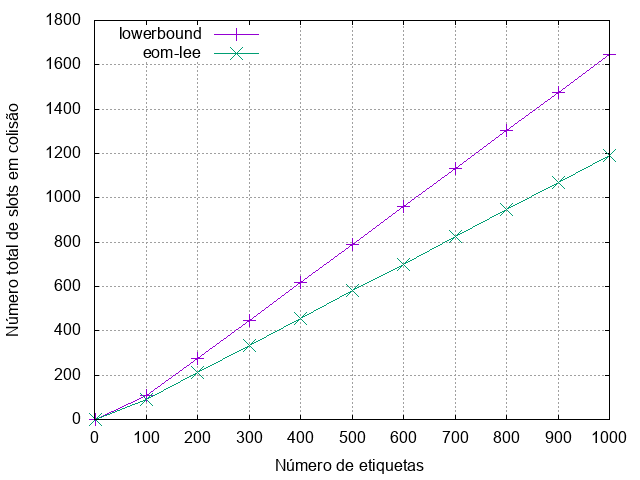
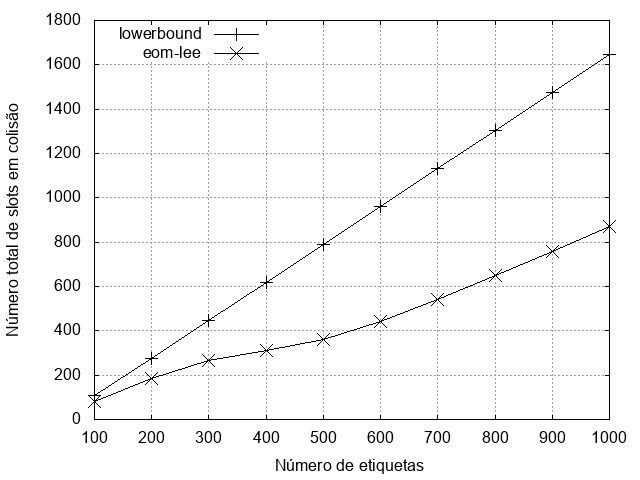
modification on eomlee function

diff --git a/SimuladorRFID/src/simulador/Simulador.java b/SimuladorRFID/src/simulador/Simulador.java
@@ -55,6 +55,8 @@ public class Simulador {
 		double gama_atual = 0;
 		double gama_anterior = 2;
 		
+		boolean parar = false;
+		
 		do{
 			
 			double betaK = tamanho_quadro/(gama_anterior*colisoes + sucessos);
@@ -65,11 +67,12 @@ public class Simulador {
 			double b = betaK * (1 - eb);
 			gama_atual = a/b;
 			
+			if(Math.abs(gama_anterior - gama_atual) < limiar) parar = true;
 			gama_anterior = gama_atual;
 			
-		}while(Math.abs(gama_anterior - gama_atual) >= limiar);
+		}while(!parar);
 		
-		return (int) (gama_atual * colisoes);
+		return (int) Math.ceil(gama_atual * colisoes);
 		
 	}
 	
@@ -77,7 +80,7 @@ public class Simulador {
 		
 		Random ran = new Random();
 		int total_slots = 0;
-		int quadro = this.quadro_inicial;
+		int tan_quadro = this.quadro_inicial;
 		int qtd_etiquetas = this.qtd_etiquetas[posicao];
 		
 		int colisao = 0, sucesso = 0, vazio = 0;
@@ -85,18 +88,18 @@ public class Simulador {
 		do{
 			colisao = 0; sucesso = 0; vazio = 0;
 			
-			total_slots += quadro;
+			total_slots += tan_quadro;
 			
-			int[] slots_abertos = new int[quadro];
+			int[] quadro = new int[tan_quadro];
 			for (int i = 0; i < qtd_etiquetas; i++) {
-				int n = ran.nextInt(quadro); //slot em que a etiqueta irá responder
-				slots_abertos[n]++;
+				int n = ran.nextInt(tan_quadro); //slot em que a etiqueta irá responder
+				quadro[n]++;
 			}
 			
-			for (int i = 0; i < slots_abertos.length; i++) {
-				if(slots_abertos[i] > 1) {
+			for (int i = 0; i < quadro.length; i++) {
+				if(quadro[i] > 1) {
 					colisao++;
-				} else if(slots_abertos[i] == 1){
+				} else if(quadro[i] == 1){
 					sucesso++;
 				} else {
 					vazio++;					
@@ -107,10 +110,10 @@ public class Simulador {
 			if(colisao > 0){
 				switch(this.estimador){
 				case("lowerbound"):
-					quadro = lowerbound(colisao);
+					tan_quadro = lowerbound(colisao);
 					break;
 				case("eom-lee"):
-					quadro = eomlee(colisao,sucesso,quadro);
+					tan_quadro = eomlee(colisao,sucesso,tan_quadro);
 					break;
 				}				
 			}
@@ -120,8 +123,7 @@ public class Simulador {
 			this.total_slots_vazio[posicao] += vazio;
 			this.total_slots_colisao[posicao] += colisao;
 			
-			//System.out.println("Colisões:\t" + estado[0] + "\tAcertos:\t" + estado[1] + "\tVazio:\t" + estado[2]);
-		}while(colisao != 0);
+		}while(qtd_etiquetas > 0);
 		
 		this.total_slots[posicao] += total_slots;
 	}
@@ -191,8 +193,11 @@ public class Simulador {
 		
 		try {
 			FileWriter writer = new FileWriter(nome_arquivo);
-
-			for (int i = 0; i < qtd_etiquetas.length; i++) {
+			
+			int j = 1;
+			if(this.estimador.equals("q")) j = 0;
+			
+			for (int i = j; i < qtd_etiquetas.length; i++) {
 				if(i == 0) 
 					writer.write(qtd_etiquetas[i] + " " + total_slots[i] + " " + total_slots_colisao[i] + " " + total_slots_vazio[i] + " " + tempo_simulacao[i] + "\n");
 				else 
@@ -206,7 +211,7 @@ public class Simulador {
 			e.printStackTrace();
 		}
 		
-		return System.getProperty("user.dir") + "/" + nome_arquivo;
+		return nome_arquivo;
 	}
 	
 	public String toString(){

diff --git a/SimuladorRFID/src/simulador/Plot.java b/SimuladorRFID/src/simulador/Plot.java
@@ -41,6 +41,10 @@ public class Plot {
 			nome_arquivo = "script_grafico_total_vazio";
 			yLabel = "set ylabel \"Número total de slots vázio\"\n";
 			break;
+		case("tempo"):
+			nome_arquivo = "script_grafico_tempo_medio";
+			yLabel = "set ylabel \"Tempo para a Identificação\"\n";
+			break;
 		}
 
 		String setup1 = "set key vertical top left\n";
@@ -48,9 +52,14 @@ public class Plot {
 		String setup3 = "set pointsize 2\n";
 		String setup4 = "set terminal png\n";
 		String setup5 = "set output './results/" + tipo + ".png'\n";
+		String setup6 = "set monochrome\n";
 
 		String plots = "plot ";
 		for (int i = 0; i < simulador.length; i++) {
+			if(simulador[i].estimador.equals("q")) {
+				nome_arquivo = "script_q_grafico_total_slots";
+				setup5 = "set output './results/" + tipo + "q.png'\n";
+			}
 			plots += "\"" + simulador[i].nome_arquivo + "\" u 1:";
 			switch(tipo){
 			case("slots"):
@@ -62,15 +71,18 @@ public class Plot {
 			case("vazio"):
 				plots += "4 ";
 				break;
+			case("tempo"):
+				plots += "5 ";
+				break;
 			}
 			if(i == simulador.length - 1) {
-				plots += "t \'" + simulador[i].estimador + "\' w linespoints \n";
+				plots += "t \'" + simulador[i].estimador + "\' w linespoints pt " + (i+1) + "\n";
 			} else {
-				plots += "t \'" + simulador[i].estimador + "\' w linespoints, ";
+				plots += "t \'" + simulador[i].estimador + "\' w linespoints pt " + (i+1) + ",";
 			}
 		}
 
-		String corpo_arquivo = xLabel + yLabel + setup1 + setup2 + setup3 + setup4 + setup5 + plots;
+		String corpo_arquivo = xLabel + yLabel + setup6 + setup1 + setup2 + setup3 + setup4 + setup5 + plots;
 
 		this.escrever_arquivo(nome_arquivo+".plt", corpo_arquivo);
 	}

diff --git a/SimuladorRFID/src/simulador/Principal.java b/SimuladorRFID/src/simulador/Principal.java
@@ -3,7 +3,8 @@ package simulador;
 public class Principal {
 	
 	public static void main(String[] args) {
-		System.out.println(System.currentTimeMillis());
+		long t0 = System.currentTimeMillis();
+		System.out.println(t0);
 		
 		Plot plot = new Plot();
 		
@@ -17,11 +18,16 @@ public class Principal {
 		plot.grafico(simuladores,"slots");
 		plot.grafico(simuladores,"colisao");
 		plot.grafico(simuladores,"vazio");
+		plot.grafico(simuladores,"tempo");
 		
-//		Simulador algQ = new Simulador("q", 100, 100, 1000, 2000, 64);
-//		System.out.println(algQ.toString());
+		Simulador algQ = new Simulador("q", 100, 100, 1000, 2000, 64);
+		System.out.println(algQ.toString());
 		
-		System.out.println(System.currentTimeMillis());
+		Simulador[] simuladoreQ = {algQ};
+		plot.grafico(simuladoreQ,"slots");
+		
+		
+		System.out.println(System.currentTimeMillis()-t0);
 	}
 	
 }
